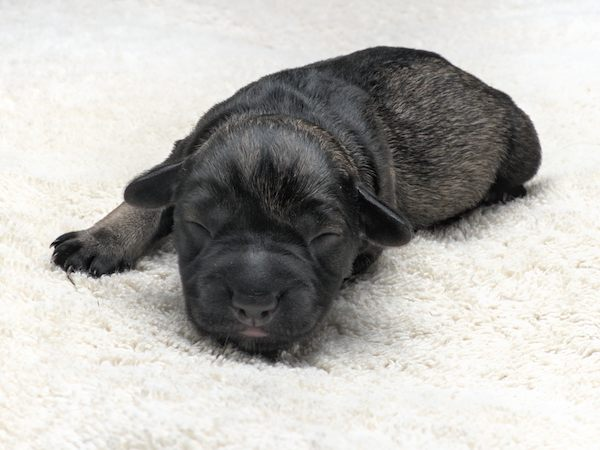
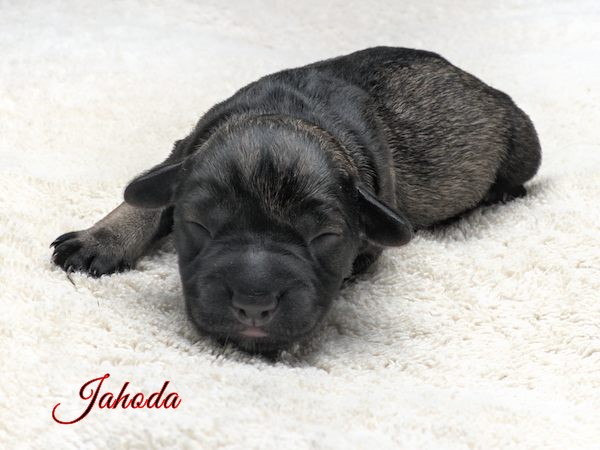
Jmena

Changed region(s): [[0.09, 0.84, 0.3, 0.9644]]

diff --git a/index.html b/index.html
@@ -157,7 +157,7 @@
                             <div class="portfolio-item-caption d-flex align-items-center justify-content-center h-100 w-100">
                                 <div class="portfolio-item-caption-content text-center text-white"><i class="fas fa-paw fa-3x"></i></div>
                             </div>
-                            <img class="img-fluid" src="assets/img/portfolio/holka-cervena.jpg" alt="..." />
+                            <img class="img-fluid" src="assets/img/portfolio/holka-cervena.jpg" alt="Jahoda" />
                         </div>
                     </div>
                     <!-- Portfolio Item 4-->
@@ -166,7 +166,7 @@
                             <div class="portfolio-item-caption d-flex align-items-center justify-content-center h-100 w-100">
                                 <div class="portfolio-item-caption-content text-center text-white"><i class="fas fa-paw fa-3x"></i></div>
                             </div>
-                            <img class="img-fluid" src="assets/img/portfolio/kluk-zelena.jpg" alt="..." />
+                            <img class="img-fluid" src="assets/img/portfolio/kluk-zelena.jpg" alt="Jitrocel" />
                         </div>
                     </div>
                     <!-- Portfolio Item 5-->
@@ -175,7 +175,7 @@
                             <div class="portfolio-item-caption d-flex align-items-center justify-content-center h-100 w-100">
                                 <div class="portfolio-item-caption-content text-center text-white"><i class="fas fa-paw fa-3x"></i></div>
                             </div>
-                            <img class="img-fluid" src="assets/img/portfolio/kluk-modra.jpg" alt="..." />
+                            <img class="img-fluid" src="assets/img/portfolio/kluk-modra.jpg" alt="Jarisch" />
                         </div>
                     </div>
                     <!-- Portfolio Item 6-->
@@ -184,7 +184,7 @@
                             <div class="portfolio-item-caption d-flex align-items-center justify-content-center h-100 w-100">
                                 <div class="portfolio-item-caption-content text-center text-white"><i class="fas fa-paw fa-3x"></i></div>
                             </div>
-                            <img class="img-fluid" src="assets/img/portfolio/kluk-zluta.jpg" alt="..." />
+                            <img class="img-fluid" src="assets/img/portfolio/kluk-zluta.jpg" alt="Jód" />
                         </div>
                     </div>
                 </div>
@@ -298,7 +298,7 @@
                             <div class="row justify-content-center">
                                 <div class="col-lg-8">
                                     <!-- Portfolio Modal - Title-->
-                                    <h2 class="portfolio-modal-title text-secondary text-uppercase mb-0">Štěně</h2>
+                                    <h2 class="portfolio-modal-title text-secondary text-uppercase mb-0">Jahoda z Apatyky</h2>
                                     <!-- Icon Divider-->
                                     <div class="divider-custom">
                                         <div class="divider-custom-line"></div>
@@ -330,7 +330,7 @@
                             <div class="row justify-content-center">
                                 <div class="col-lg-8">
                                     <!-- Portfolio Modal - Title-->
-                                    <h2 class="portfolio-modal-title text-secondary text-uppercase mb-0">Štěně</h2>
+                                    <h2 class="portfolio-modal-title text-secondary text-uppercase mb-0">Jitrocel z Apatyky</h2>
                                     <!-- Icon Divider-->
                                     <div class="divider-custom">
                                         <div class="divider-custom-line"></div>
@@ -362,7 +362,7 @@
                             <div class="row justify-content-center">
                                 <div class="col-lg-8">
                                     <!-- Portfolio Modal - Title-->
-                                    <h2 class="portfolio-modal-title text-secondary text-uppercase mb-0">Štěně</h2>
+                                    <h2 class="portfolio-modal-title text-secondary text-uppercase mb-0">Jarisch z Apatyky</h2>
                                     <!-- Icon Divider-->
                                     <div class="divider-custom">
                                         <div class="divider-custom-line"></div>
@@ -394,7 +394,7 @@
                             <div class="row justify-content-center">
                                 <div class="col-lg-8">
                                     <!-- Portfolio Modal - Title-->
-                                    <h2 class="portfolio-modal-title text-secondary text-uppercase mb-0">Štěně</h2>
+                                    <h2 class="portfolio-modal-title text-secondary text-uppercase mb-0">Jód z Apatyky</h2>
                                     <!-- Icon Divider-->
                                     <div class="divider-custom">
                                         <div class="divider-custom-line"></div>
